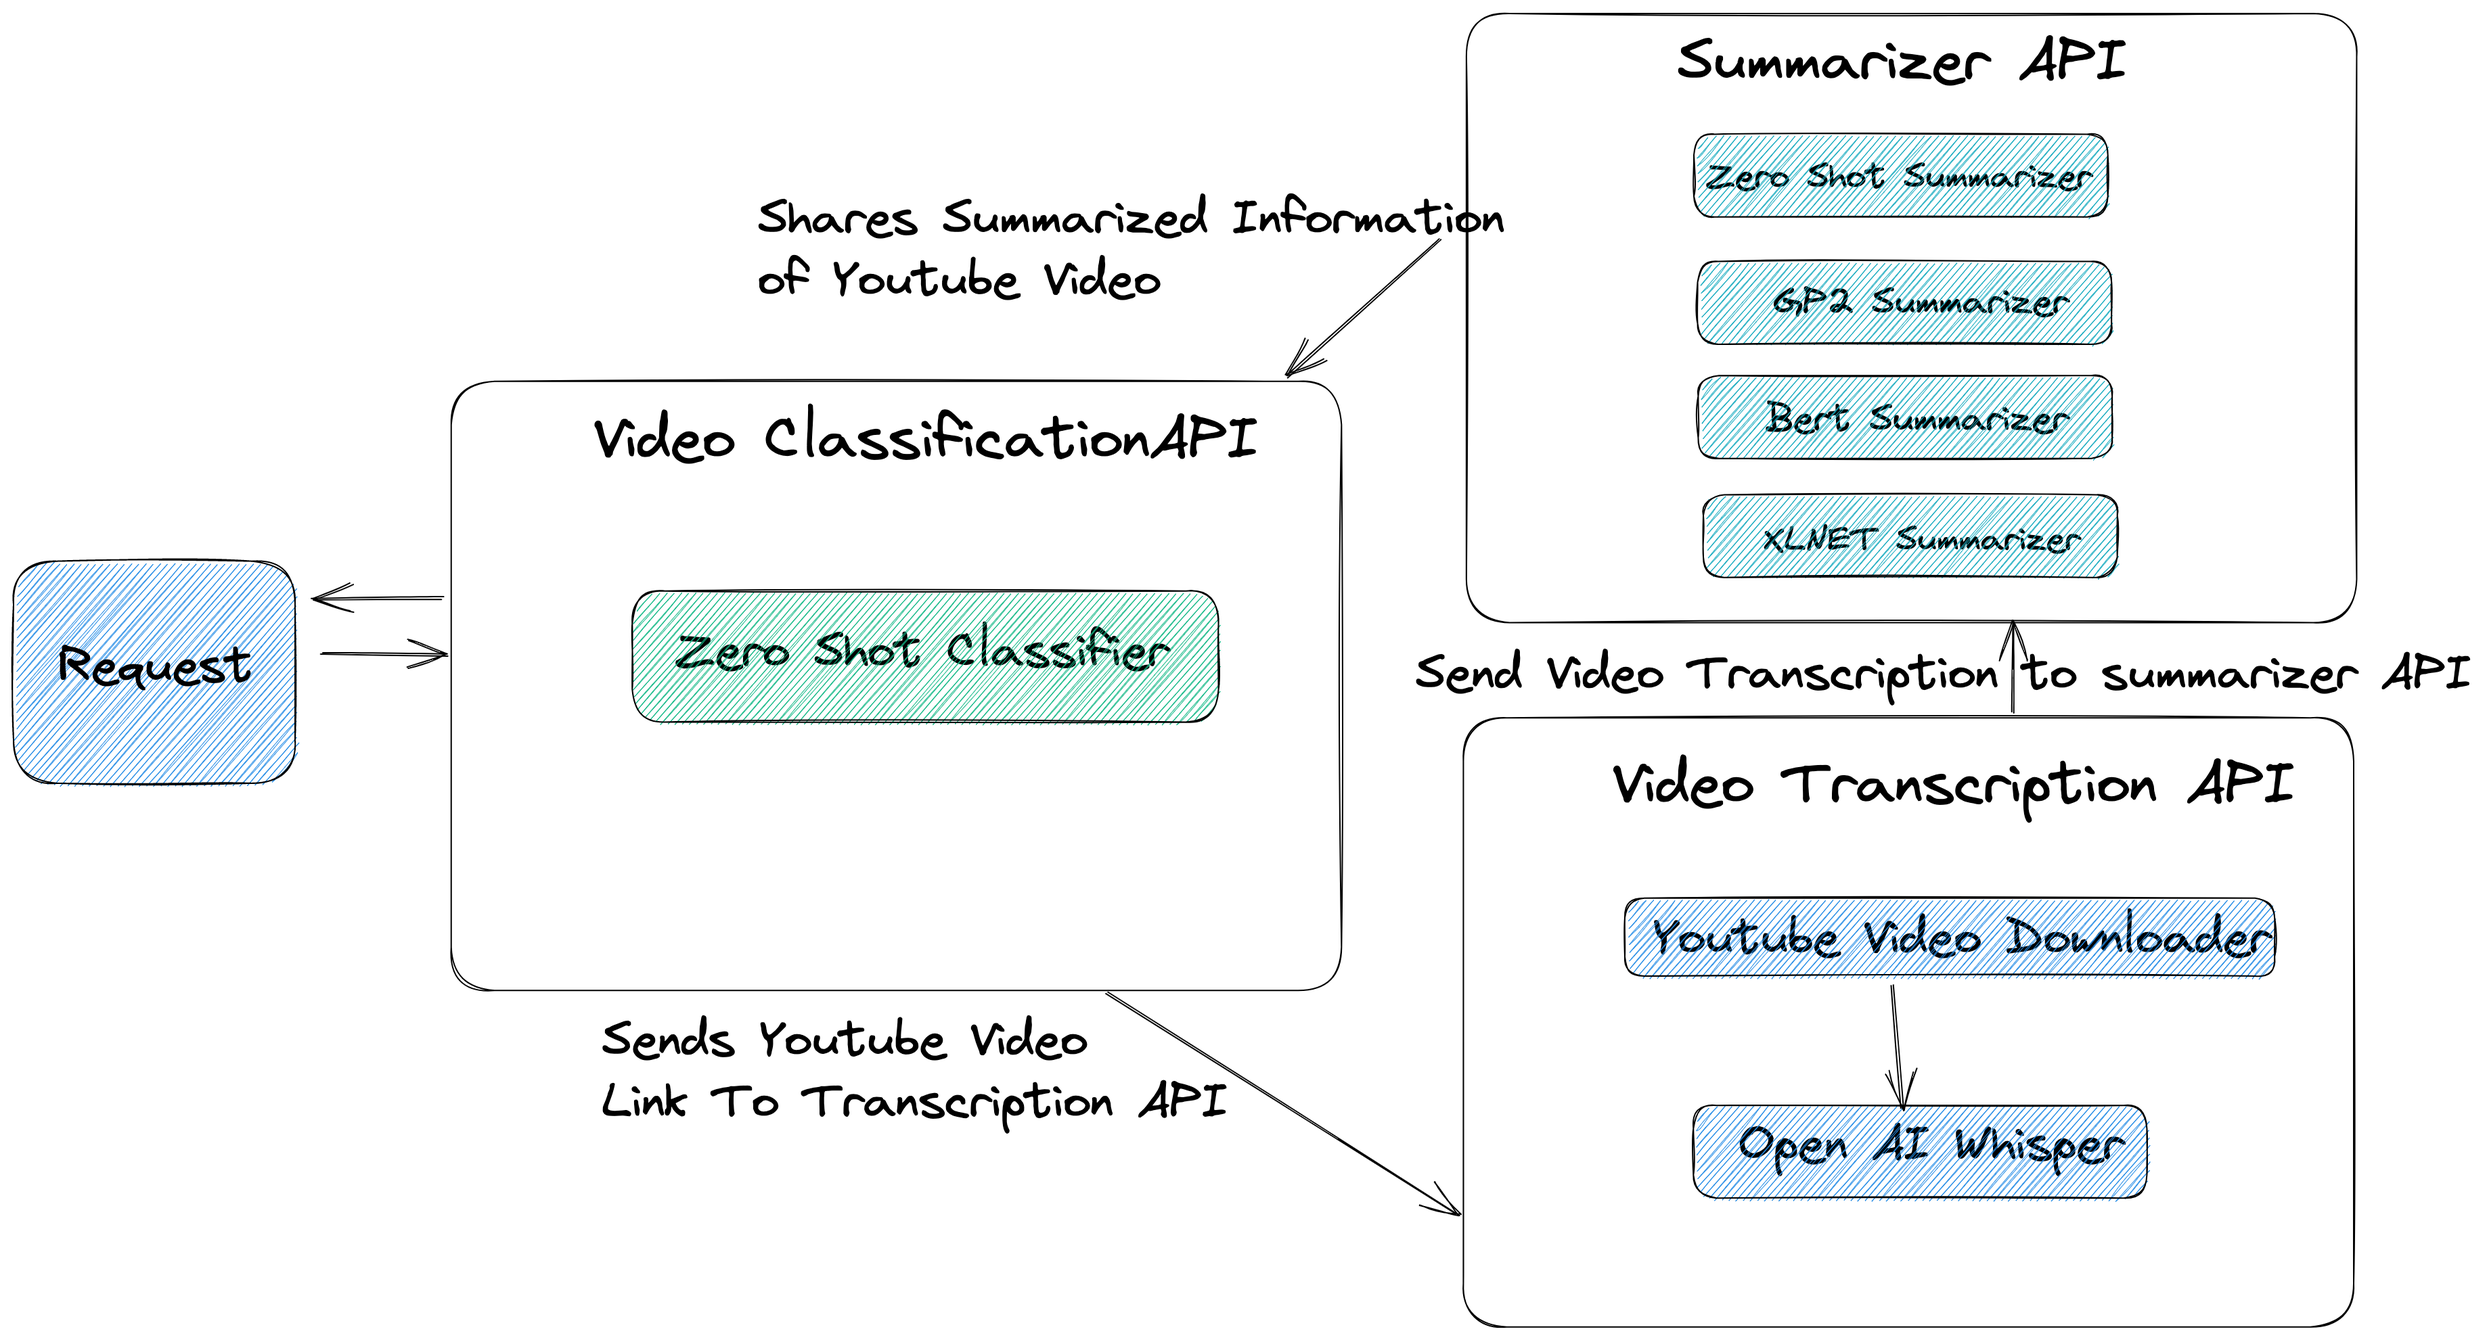
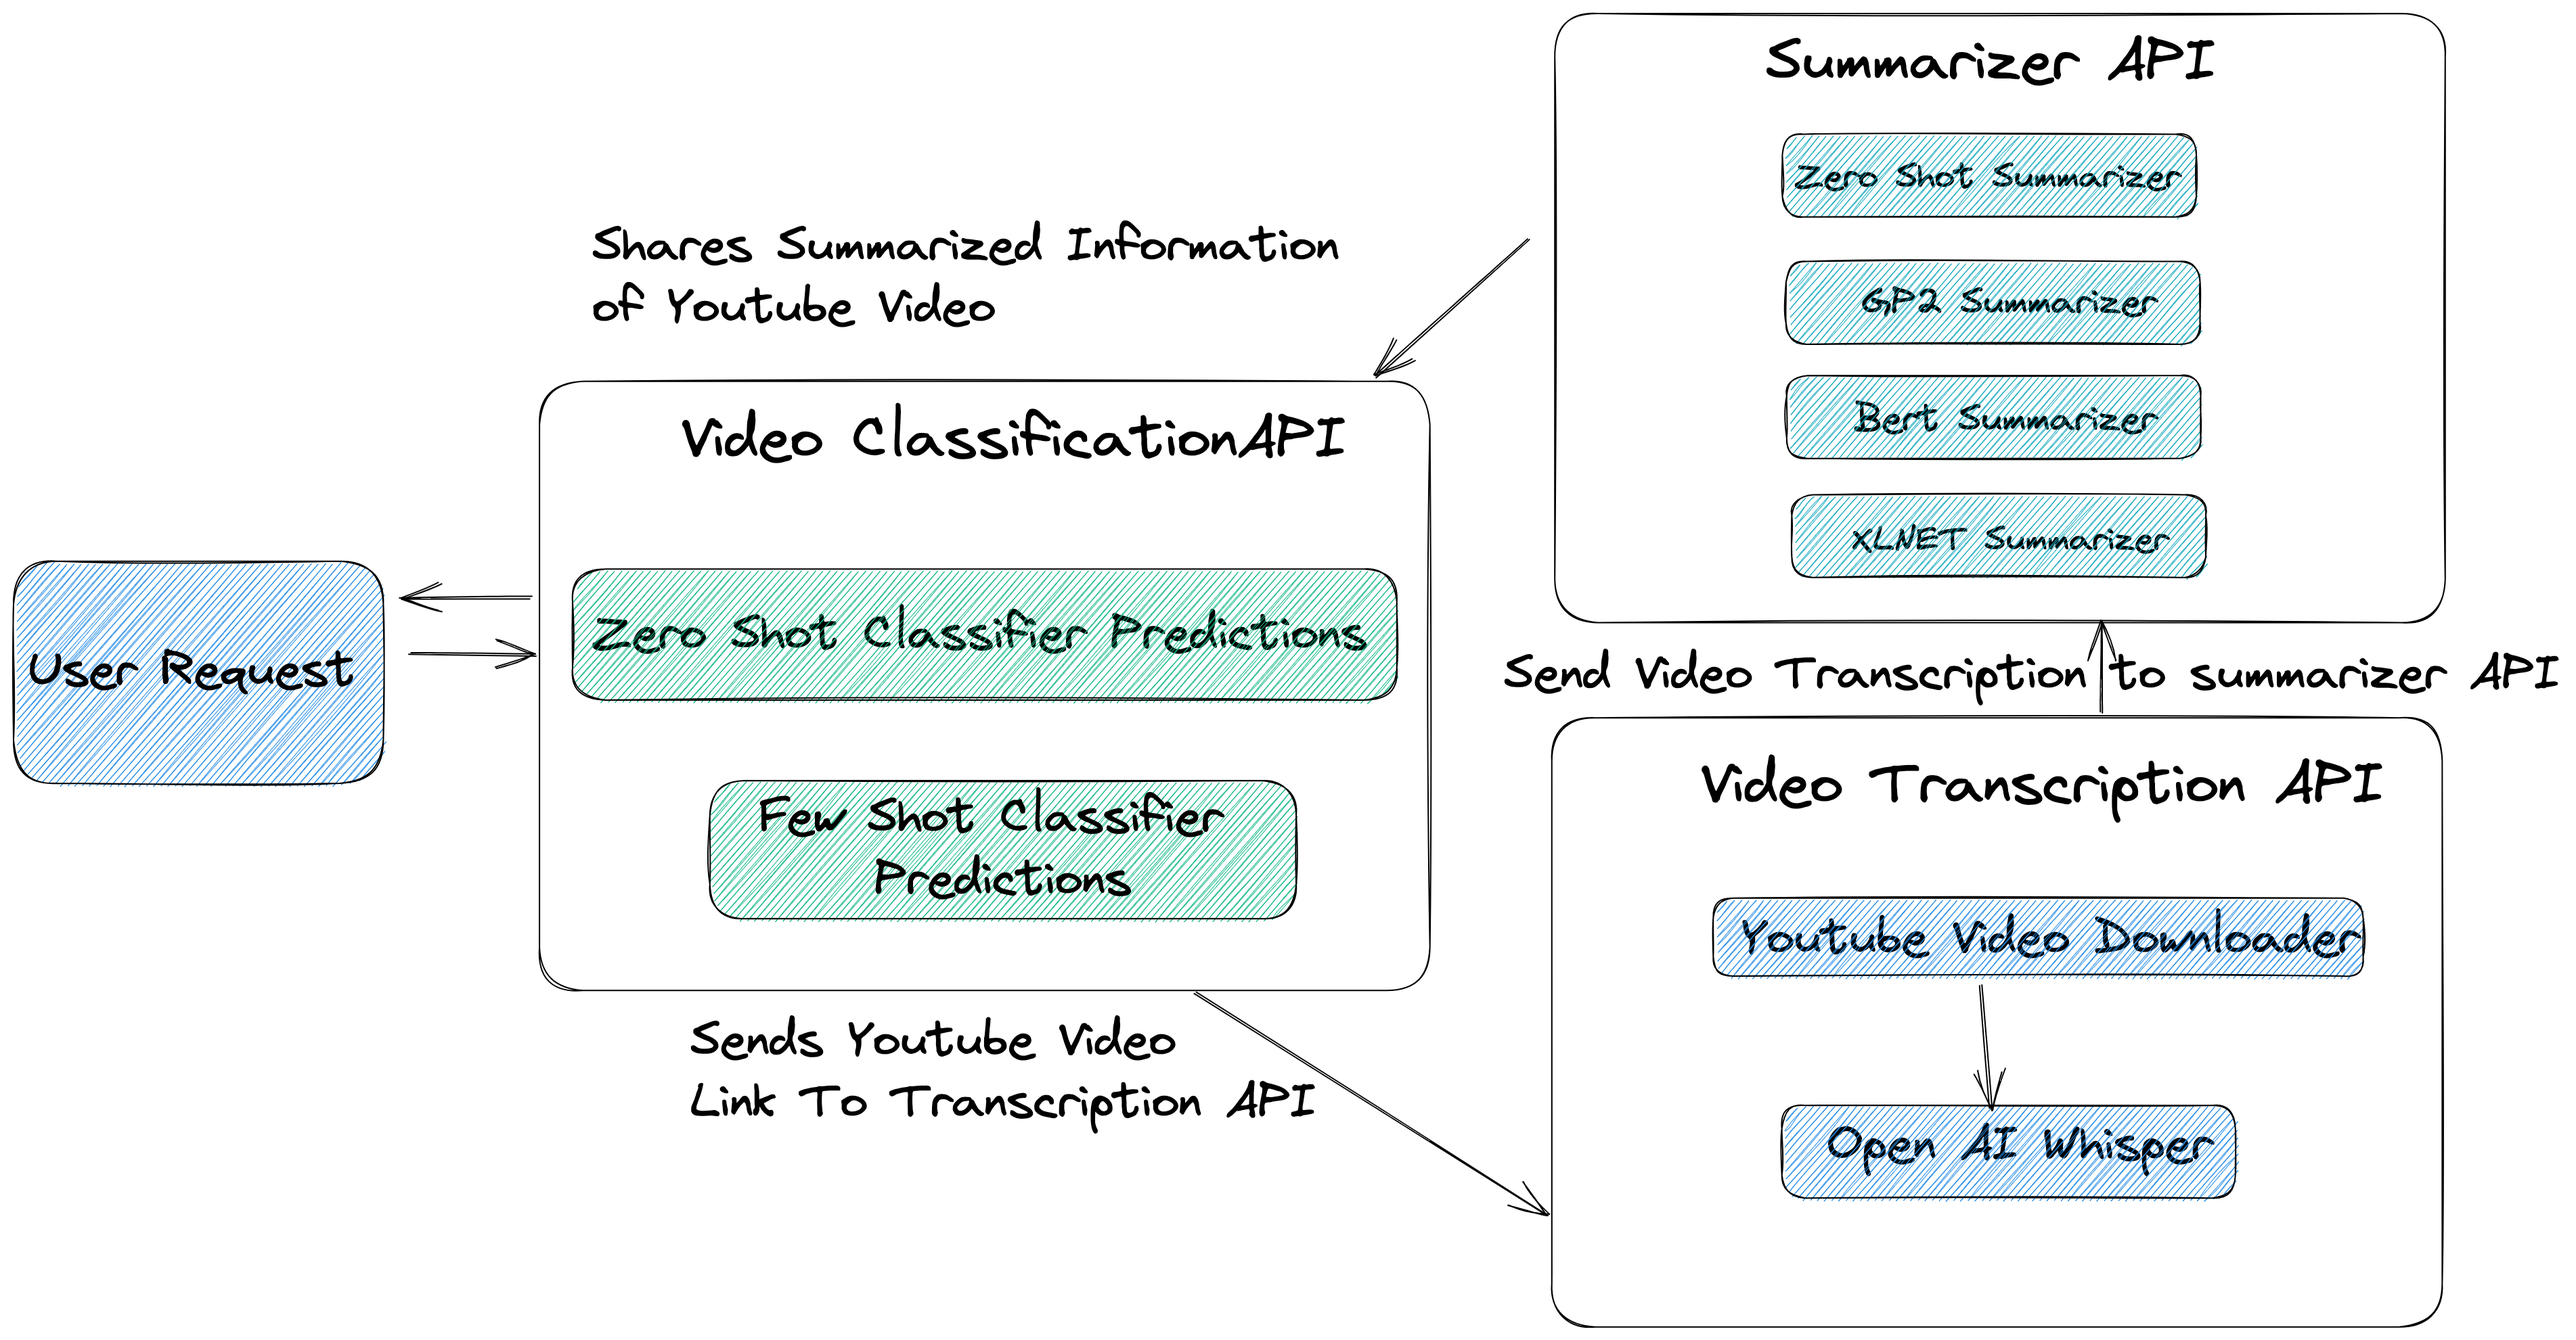
Updated README.md

diff --git a/project_app.py b/project_app.py
@@ -3,7 +3,7 @@ import requests
 import streamlit as st
 from transformers import pipeline
 
-st.title('Summarized Video Transcript Classification using Zero Shot Learning')
+st.title('Summarized Video Transcript Classification using Few Shot Learning and Zero Shot Learning')
 
 st.header('Enter Youtube Video URL')
 video_url = st.text_input('YouTube Video', '')

diff --git a/README.md b/README.md
@@ -24,19 +24,28 @@ successful recently. Remarkably, the subject has drawn increased
 interest since deep learning models became an effective tool for
 identifying videos.
 
-### Project Diagram
+### Project Flow Diagram
 
 ![Diagram](https://github.com/aryan-jadon/CMPE-297-Project/blob/main/screenshots/Diagram.png)
 
 ### Project Files
 
-#### Dataset Link - https://drive.google.com/drive/folders/1jG7f-U7QlH0Tf0Es9fp0AMcyZ1I5Mzmh?usp=sharing
+#### MLOps Slides Link - https://drive.google.com/drive/folders/1L5IyrtueociFmLNkt7dkEuph3GdNj33g?usp=share_link
 
-#### Slides Link - https://drive.google.com/drive/folders/1BiF2mIcIeJoaQq29q3e0iXnS3LK1NCu3?usp=sharing
+#### Presentation Slides Link - https://drive.google.com/drive/folders/1BiF2mIcIeJoaQq29q3e0iXnS3LK1NCu3?usp=share_link
 
-#### Report Link - https://drive.google.com/drive/folders/10s2rOf6i0t2ET28-Rap1JhtPgbtrPHlZ?usp=share_link
+#### Dataset Link - https://drive.google.com/drive/folders/1jG7f-U7QlH0Tf0Es9fp0AMcyZ1I5Mzmh?usp=share_link
 
-#### Project Demo Video Link - https://drive.google.com/drive/folders/1n1RgTIgcNA765vJOndch1i73v7ViAvwh?usp=sharing
+#### Project Report Link - https://drive.google.com/drive/folders/10s2rOf6i0t2ET28-Rap1JhtPgbtrPHlZ?usp=share_link
+
+#### Project Demo Video Link - https://drive.google.com/drive/folders/1n1RgTIgcNA765vJOndch1i73v7ViAvwh?usp=share_link
+
+
+## Team Members Responsibility
+1. Aryan Jadon
+2. Swathi Anandram
+3. Shreya Nimbhorkar
+4. Harika Nalam
 
 
 ## Project Screenshots
@@ -82,5 +91,5 @@ python manage.py runserver 8000
 ```
 6. run Streamlit App form it's parent folder
 ```bash
-streamlit run app.py
+streamlit run project_app.py
 ```
